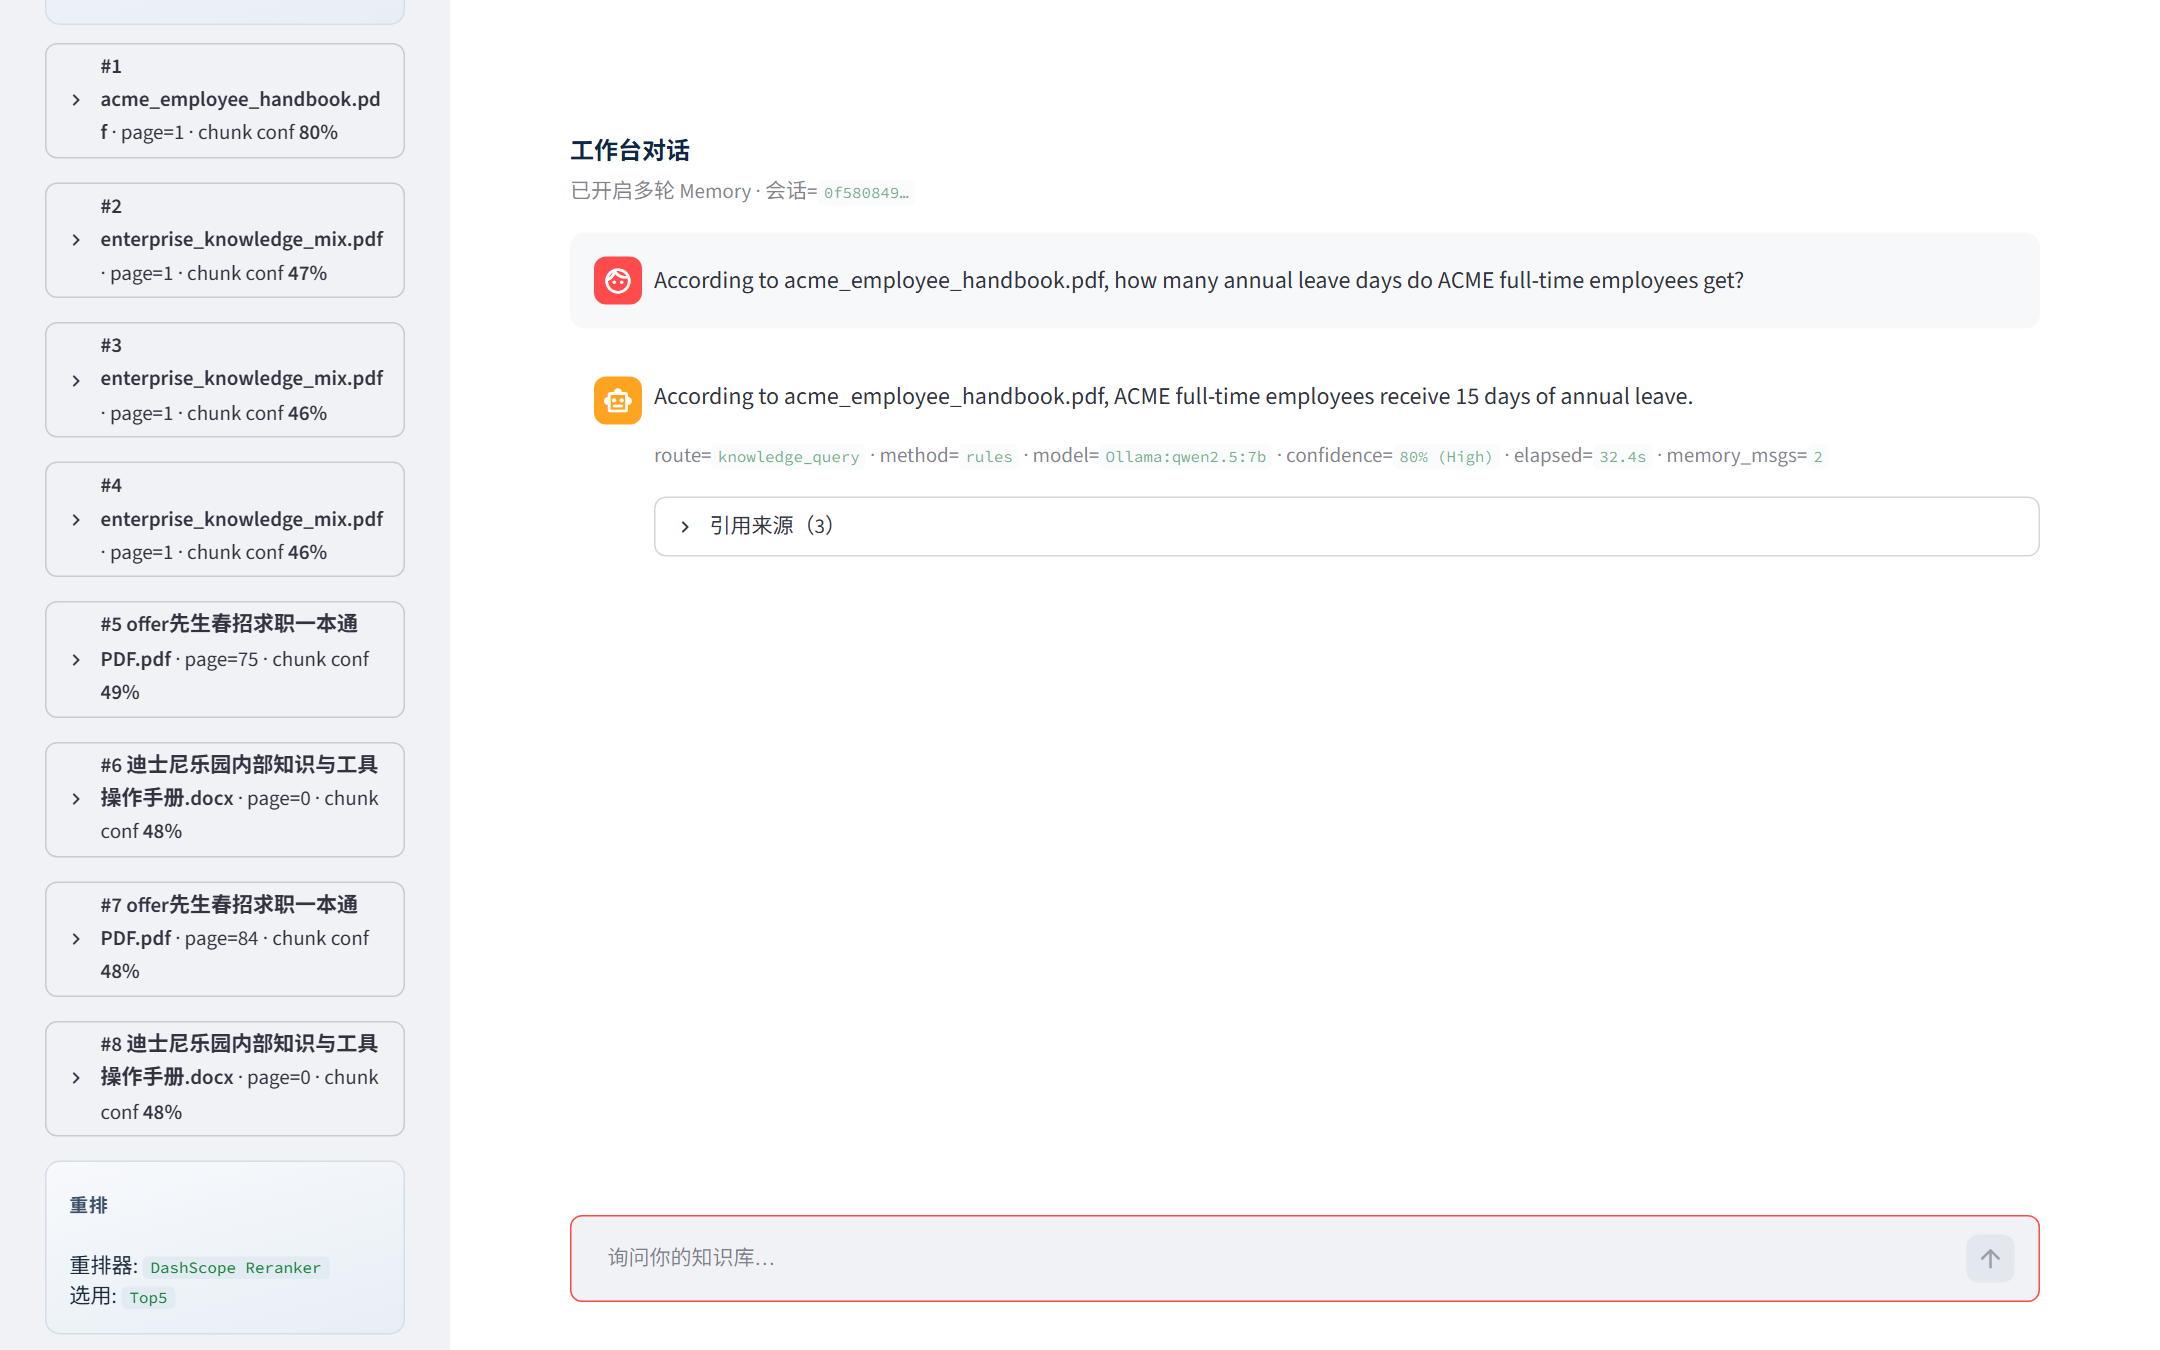
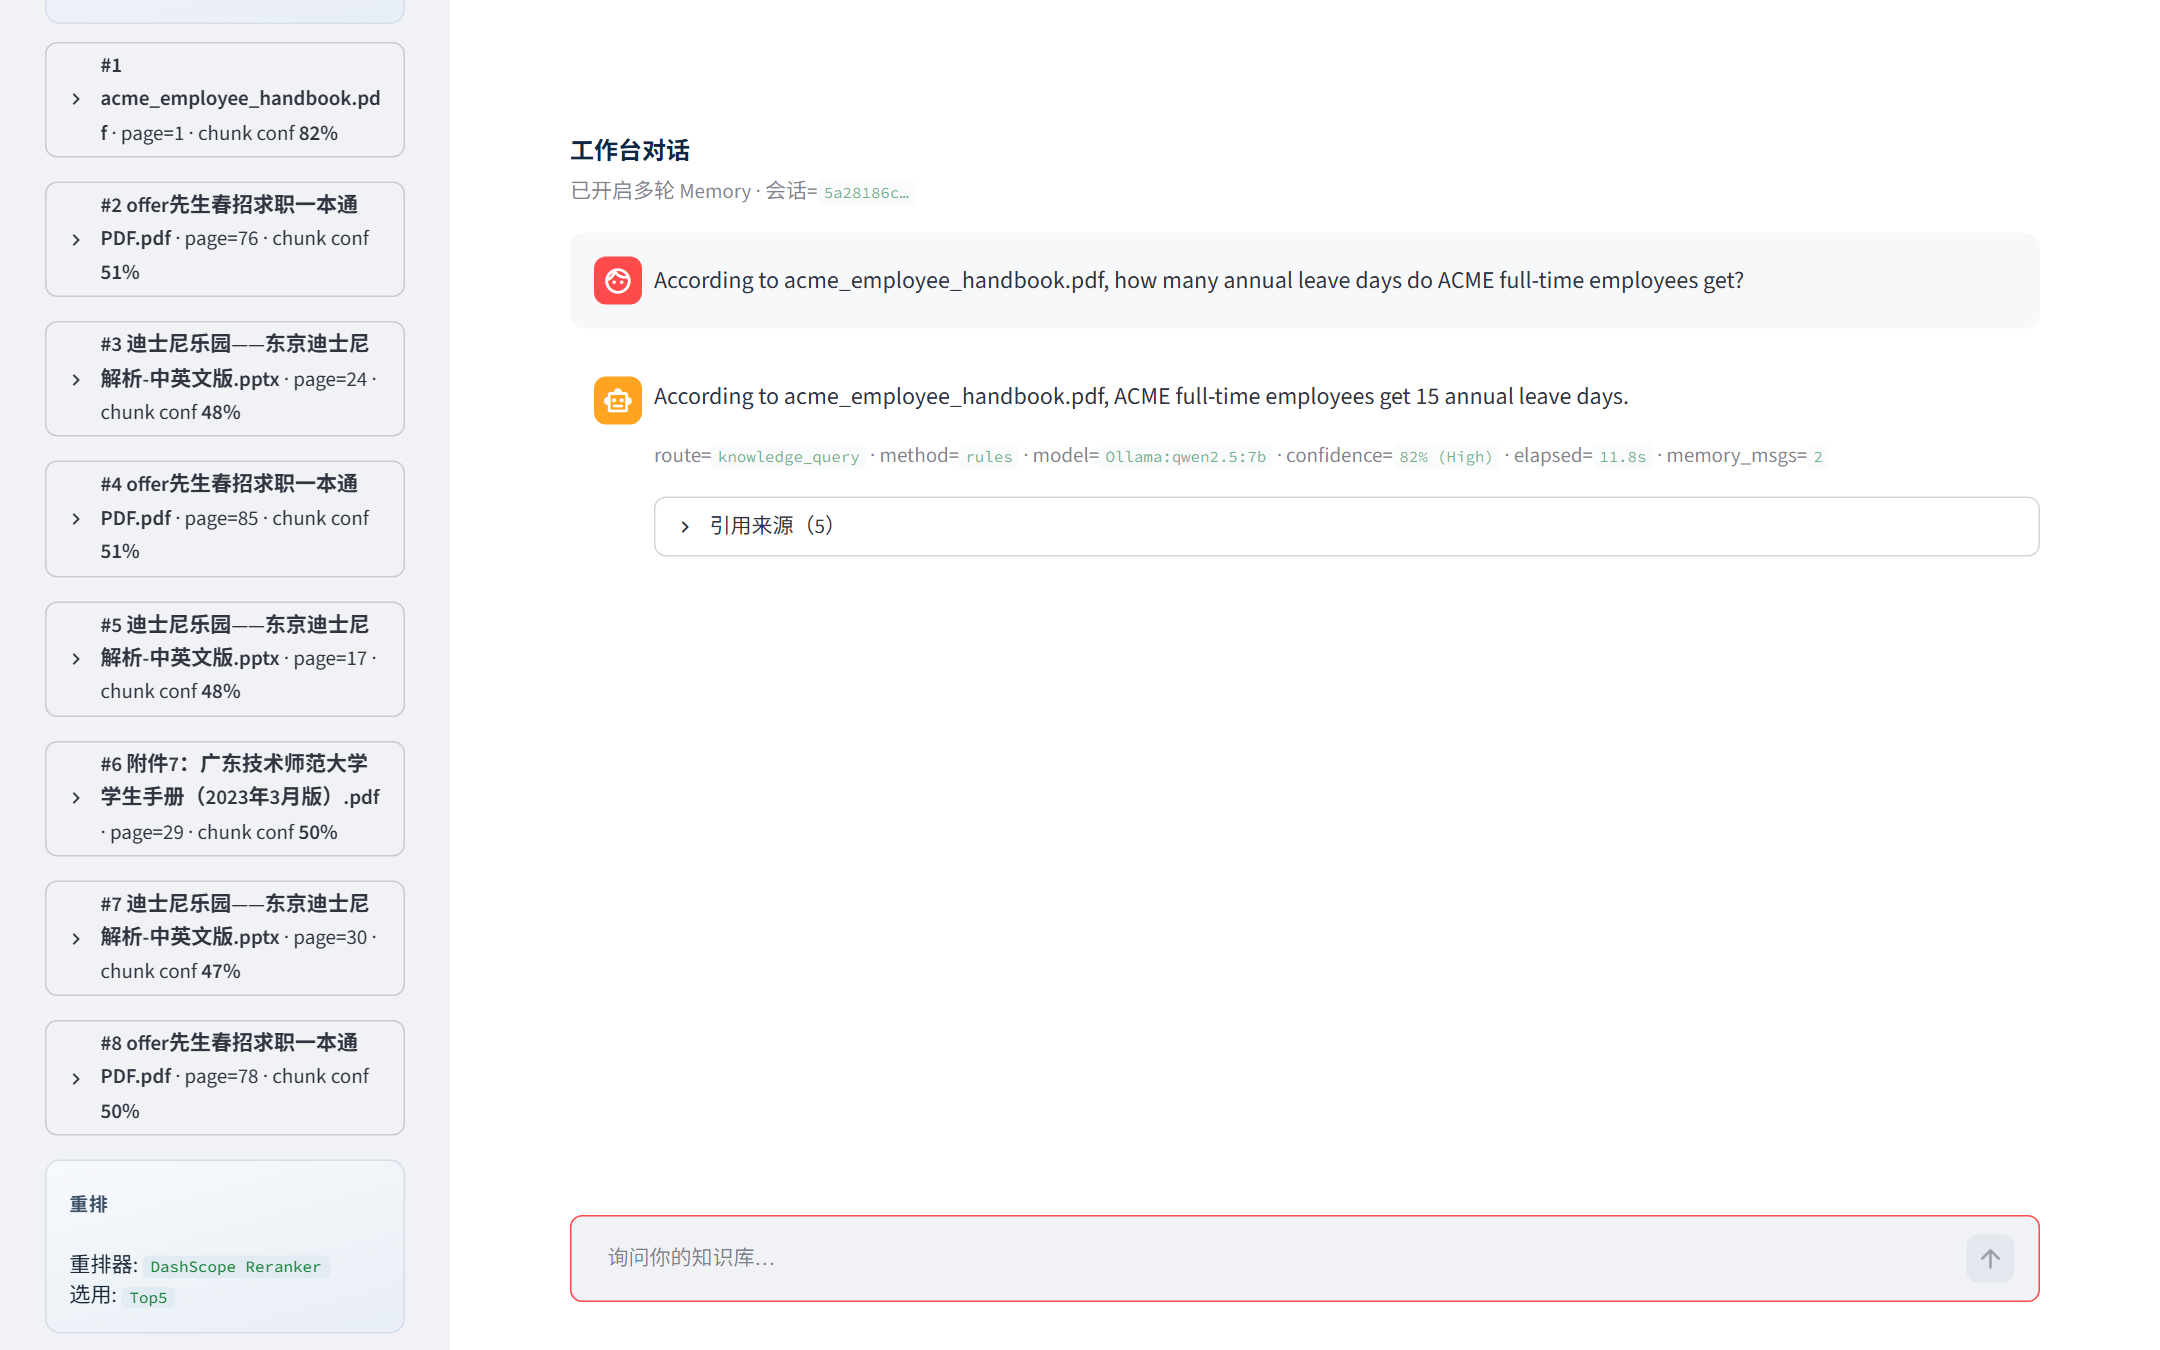
update demo_picture and README

diff --git a/scripts/capture_demo_screenshots.py b/scripts/capture_demo_screenshots.py
@@ -23,7 +23,8 @@ QUESTION = (
     "According to acme_employee_handbook.pdf, how many annual leave days "
     "do ACME full-time employees get?"
 )
-SUCCESS_MARKERS = ("15 days", "15 day", "15 天")
+# LLM may say "15 days" or "15 annual leave days" — accept either shape.
+SUCCESS_MARKERS = ("15 days", "15 day", "15 天", "15 annual", "15 annual leave")
 
 
 def _ensure_out() -> None:
@@ -38,16 +39,65 @@ def _api_ok() -> None:
         print(f"API ok · documents={len(docs)}")
 
 
+def _pct(rate: float) -> str:
+    return f"{rate * 100:.2f}%"
+
+
+def _load_readme_aligned_rows() -> tuple[list[dict[str, str]], str]:
+    """Rows matching README Retrieval Evaluation table (prefer candidate_k summary)."""
+    # Fallback = README documented numbers
+    defaults = [
+        {"name": "Hybrid@10", "recall": "83.33%", "strict": "62.07%", "hl": False},
+        {"name": "Hybrid@20", "recall": "83.33%", "strict": "62.07%", "hl": False},
+        {"name": "Hybrid@30", "recall": "83.33%", "strict": "62.07%", "hl": False},
+        {
+            "name": "Hybrid@20 + Reranker",
+            "recall": "86.67%",
+            "strict": "75.86%",
+            "hl": True,
+        },
+    ]
+    summary_path = ROOT / "evaluation" / "phase5" / "candidate_k" / "summary.json"
+    if not summary_path.exists():
+        return defaults, "docs/eval.md · README fallback"
+    data = json.loads(summary_path.read_text(encoding="utf-8"))
+    configs = data.get("configs") or []
+    by_key = {str(c.get("key") or ""): c for c in configs}
+    order = [
+        ("hybrid10", "Hybrid@10", False),
+        ("hybrid20", "Hybrid@20", False),
+        ("hybrid30", "Hybrid@30", False),
+        ("hybrid20_rerank", "Hybrid@20 + Reranker", True),
+    ]
+    rows: list[dict[str, str]] = []
+    for key, label, hl in order:
+        c = by_key.get(key)
+        if not c:
+            continue
+        rows.append(
+            {
+                "name": label,
+                "recall": _pct(float(c.get("recall_at_k") or 0)),
+                "strict": _pct(float(c.get("strict_citation_page_hit_rate") or 0)),
+                "hl": hl,
+            }
+        )
+    if len(rows) < 4:
+        return defaults, "docs/eval.md · README fallback"
+    return rows, "evaluation/phase5/candidate_k · 30 题"
+
+
 def _write_eval_card() -> Path:
-    """Static HTML card from phase5_report numbers (no RAG pipeline change)."""
-    report = ROOT / "evaluation" / "phase5_report.md"
-    text = report.read_text(encoding="utf-8") if report.exists() else ""
-    # Prefer JSON if present for stable numbers
-    jpath = ROOT / "evaluation" / "phase5_report.json"
-    metrics: dict = {}
-    if jpath.exists():
-        data = json.loads(jpath.read_text(encoding="utf-8"))
-        metrics = data.get("metrics") or data.get("summary") or data
+    """Static HTML card aligned with README Retrieval Evaluation table."""
+    rows, source = _load_readme_aligned_rows()
+    trs = []
+    for r in rows:
+        cls = ' class="hl"' if r.get("hl") else ""
+        trs.append(
+            f"<tr{cls}><td>{r['name']}</td>"
+            f"<td>{r['recall']}</td><td>{r['strict']}</td></tr>"
+        )
+    table_body = "\n      ".join(trs)
     html = f"""<!DOCTYPE html>
 <html lang="zh-CN">
 <head>
@@ -65,33 +115,41 @@ def _write_eval_card() -> Path:
     box-shadow: 0 8px 28px rgba(15,39,68,.06);
   }}
   h1 {{ margin: 0 0 6px; font-size: 1.45rem; letter-spacing: -0.02em; }}
-  .sub {{ color: #5a6b7d; font-size: 0.92rem; margin-bottom: 22px; }}
-  .grid {{ display: grid; grid-template-columns: repeat(2, 1fr); gap: 14px; }}
-  .metric {{
-    background: #f7f9fc; border: 1px solid #e2eaf2; border-radius: 10px;
-    padding: 14px 16px;
+  .sub {{ color: #5a6b7d; font-size: 0.92rem; margin-bottom: 18px; }}
+  table {{
+    width: 100%; border-collapse: collapse; font-size: 0.98rem;
   }}
-  .label {{ font-size: 0.75rem; text-transform: uppercase; letter-spacing: .06em; color: #3d5268; }}
-  .value {{ font-size: 1.55rem; font-weight: 700; margin-top: 4px; color: #0d7a4f; }}
-  .note {{ margin-top: 18px; font-size: 0.85rem; color: #6b7c8f; line-height: 1.45; }}
+  th, td {{
+    text-align: left; padding: 12px 14px; border-bottom: 1px solid #e2eaf2;
+  }}
+  th {{
+    font-size: 0.72rem; text-transform: uppercase; letter-spacing: .05em;
+    color: #3d5268; background: #f7f9fc;
+  }}
+  tr.hl td {{
+    font-weight: 700; color: #0d7a4f; background: #f0faf5;
+  }}
+  .note {{ margin-top: 18px; font-size: 0.85rem; color: #6b7c8f; line-height: 1.5; }}
   code {{ background: #e2eaf2; padding: 0.05rem 0.35rem; border-radius: 4px; }}
 </style>
 </head>
 <body>
   <div class="card">
     <h1>Enterprise RAG · Phase5 Evaluation</h1>
-    <div class="sub">样例题集可复现指标 · 详见 <code>evaluation/phase5_report.md</code></div>
-    <div class="grid">
-      <div class="metric"><div class="label">Recall@5</div><div class="value">91.67%</div></div>
-      <div class="metric"><div class="label">Context Precision</div><div class="value">0.92</div></div>
-      <div class="metric"><div class="label">Must-include Pass</div><div class="value">0.75</div></div>
-      <div class="metric"><div class="label">Faithfulness (lite)</div><div class="value">0.64</div></div>
-    </div>
+    <div class="sub">来源 <code>{source}</code></div>
+    <table>
+      <thead>
+        <tr><th>Configuration</th><th>Recall@5</th><th>Strict Citation</th></tr>
+      </thead>
+      <tbody>
+      {table_body}
+      </tbody>
+    </table>
     <p class="note">
-      12 题 · RAGAS-style 为仓库内轻量实现（非重型 ragas 包）。
-      Answer relevancy ≈ 0.61。Phase6 云模型 = Future Work。
+      30 题离线召回（Top-5 计分）；Strict Citation = <code>(filename, page)</code> 同时匹配。
+      Hybrid@10/20/30 召回质量相同；加入 Reranker 后 Recall@5 83.33%→86.67%，
+      严格引用 62.07%→75.86%。默认服务：Hybrid@20 + Reranker(Top-5)。详见 <code>docs/eval.md</code>。
     </p>
-    <!-- report excerpt length: {len(text)} · metrics keys: {list(metrics)[:8]} -->
   </div>
 </body>
 </html>
@@ -157,6 +215,133 @@ def _scroll_into_view(page, text: str) -> None:
             pass
 
 
+def _screenshot_answer_trace(page) -> Path:
+    """Capture full Answer Trace stack from the sidebar (query → retrieve → rerank → gen → conf)."""
+    page.set_viewport_size({"width": 900, "height": 2400})
+    time.sleep(0.5)
+    # Hide chrome above Trace; expand scroll containers so panels are not clipped
+    page.evaluate(
+        """() => {
+      const sidebar = document.querySelector('[data-testid="stSidebar"]');
+      if (!sidebar) return false;
+      let title = null;
+      for (const e of sidebar.querySelectorAll('p, div, span, h1, h2, h3, h4')) {
+        if ((e.textContent || '').trim() === '回答轨迹') {
+          title = e;
+          break;
+        }
+      }
+      if (!title) return false;
+
+      // Walk up to a block that is a direct vertical section, then hide previous siblings
+      let block = title;
+      for (let i = 0; i < 8 && block.parentElement; i++) {
+        const parent = block.parentElement;
+        if (parent === sidebar || parent.getAttribute('data-testid') === 'stSidebarContent') {
+          break;
+        }
+        // Prefer the Streamlit block/container that owns the Trace section
+        if (
+          parent.className &&
+          String(parent.className).includes('stVerticalBlock') &&
+          parent.parentElement
+        ) {
+          block = parent;
+        } else {
+          block = parent;
+        }
+      }
+
+      // Hide everything in the sidebar vertical flow before the Trace title's ancestor chain
+      const hideBefore = (root, stopEl) => {
+        const kids = [...root.children];
+        let found = false;
+        for (const kid of kids) {
+          if (kid.contains(stopEl) || kid === stopEl) {
+            found = true;
+            // Within this kid, hide earlier siblings of the path to stopEl
+            if (kid !== stopEl) hideBefore(kid, stopEl);
+            break;
+          }
+          kid.style.setProperty('display', 'none', 'important');
+        }
+        return found;
+      };
+      hideBefore(sidebar, title);
+
+      // Unclip overflow so full Trace paints
+      const all = [sidebar, ...sidebar.querySelectorAll('*')];
+      for (const el of all) {
+        const s = getComputedStyle(el);
+        if (s.overflowY === 'auto' || s.overflowY === 'scroll' || s.overflow === 'auto') {
+          el.style.setProperty('overflow', 'visible', 'important');
+          el.style.setProperty('max-height', 'none', 'important');
+          el.style.setProperty('height', 'auto', 'important');
+        }
+      }
+      sidebar.style.setProperty('overflow', 'visible', 'important');
+      sidebar.style.setProperty('height', 'auto', 'important');
+      sidebar.style.setProperty('max-height', 'none', 'important');
+      // Collapse main app area so viewport focuses sidebar
+      const main = document.querySelector('[data-testid="stAppViewContainer"] section.main');
+      if (main) main.style.setProperty('display', 'none', 'important');
+      return true;
+    }"""
+    )
+    time.sleep(0.8)
+    path = OUT / "03_answer_trace.png"
+    # Measure Trace content after hide/expand
+    box = page.evaluate(
+        """() => {
+      const sidebar = document.querySelector('[data-testid="stSidebar"]');
+      if (!sidebar) return null;
+      let title = null;
+      for (const e of sidebar.querySelectorAll('p, div, span')) {
+        if ((e.textContent || '').trim() === '回答轨迹') { title = e; break; }
+      }
+      const sb = sidebar.getBoundingClientRect();
+      const panels = [...sidebar.querySelectorAll('h4, [data-testid="stExpander"], .wk-panel')];
+      let bottom = title ? title.getBoundingClientRect().bottom : sb.bottom;
+      for (const el of panels) {
+        const r = el.getBoundingClientRect();
+        if (r.height > 0) bottom = Math.max(bottom, r.bottom);
+      }
+      // Also include last visible text nodes' containers
+      const texts = ['置信度', '生成', '重排', '检索', '查询分析', '原始 Trace'];
+      for (const t of texts) {
+        for (const e of sidebar.querySelectorAll('p, h4, div, span')) {
+          if ((e.textContent || '').trim().startsWith(t) || (e.textContent || '').trim() === t) {
+            bottom = Math.max(bottom, e.getBoundingClientRect().bottom);
+          }
+        }
+      }
+      const top = title ? Math.max(0, title.getBoundingClientRect().y - 12) : Math.max(0, sb.y);
+      return {
+        x: Math.max(0, sb.x),
+        y: top,
+        width: Math.min(Math.max(sb.width, 360), window.innerWidth - Math.max(0, sb.x)),
+        height: Math.min(Math.max(bottom - top + 32, 600), 2300),
+      };
+    }"""
+    )
+    if isinstance(box, dict) and float(box.get("width") or 0) > 10 and float(box.get("height") or 0) > 10:
+        page.screenshot(
+            path=str(path),
+            clip={
+                "x": float(box["x"]),
+                "y": float(box["y"]),
+                "width": float(box["width"]),
+                "height": float(box["height"]),
+            },
+        )
+    else:
+        page.locator('[data-testid="stSidebar"]').first.screenshot(path=str(path))
+    print(f"wrote {path.relative_to(ROOT)}")
+    # Reload to restore UI for subsequent steps
+    page.set_viewport_size({"width": 1440, "height": 900})
+    return path
+
+
 def main() -> int:
     _ensure_out()
     _api_ok()
@@ -207,11 +392,8 @@ def main() -> int:
         time.sleep(0.8)
         _screenshot(page, "02_qa_sources.png", full_page=False)
 
-        # 3) Trace: confidence formula + generation in sidebar
-        _scroll_into_view(page, "置信度")
-        _scroll_into_view(page, "生成")
-        time.sleep(0.8)
-        _screenshot(page, "03_answer_trace.png", full_page=False)
+        # 3) Trace: sidebar panels (查询分析 → 检索 → 重排 → 生成 → 置信度)
+        _screenshot_answer_trace(page)
 
         # 4) Eval summary card
         page.goto(eval_html.as_uri(), wait_until="domcontentloaded")

diff --git a/README.md b/README.md
@@ -136,7 +136,7 @@ Query Router（规则 + LLM）
 | 知识库上传 / 已索引文档 | ![Workspace upload](docs/demo/01_workspace_upload.png) |
 | 问答 + 引用来源 | ![Q&A with sources](docs/demo/02_qa_sources.png) |
 | Answer Trace / 置信度 | ![Answer Trace](docs/demo/03_answer_trace.png) |
-| Phase5 评测摘要 | ![Eval summary](docs/demo/04_eval_summary.png) |
+| Phase5 评测摘要 | ![Eval summary](docs\demo\04_eval_summary.png) |
 
 演示口述见 [`docs/demo_script.md`](docs/demo_script.md)。重截图（需本机 API+UI 已启动）：`python scripts/capture_demo_screenshots.py`（依赖可选 `playwright`）。
 
